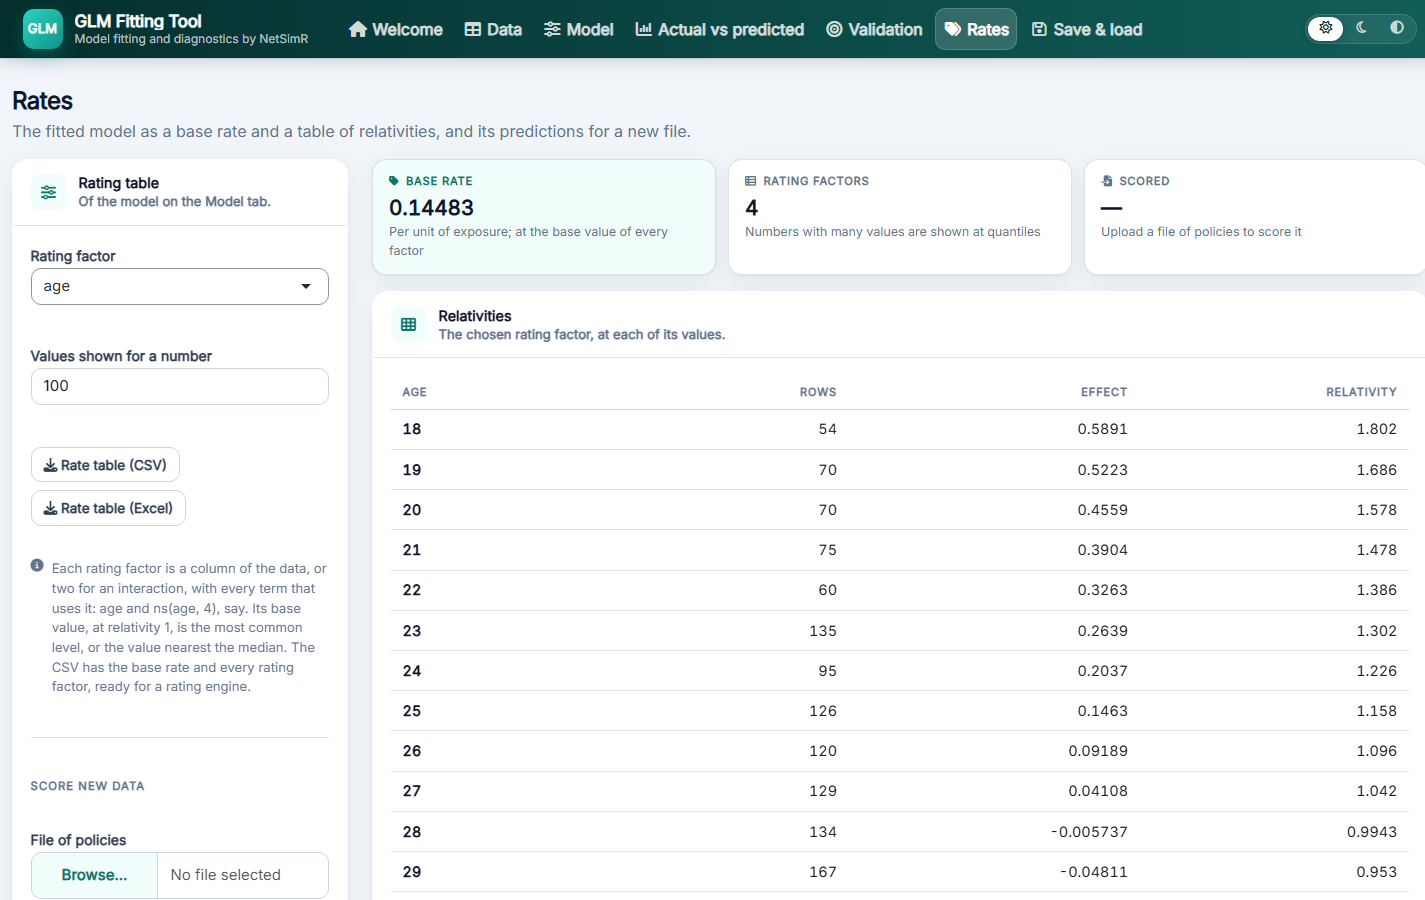
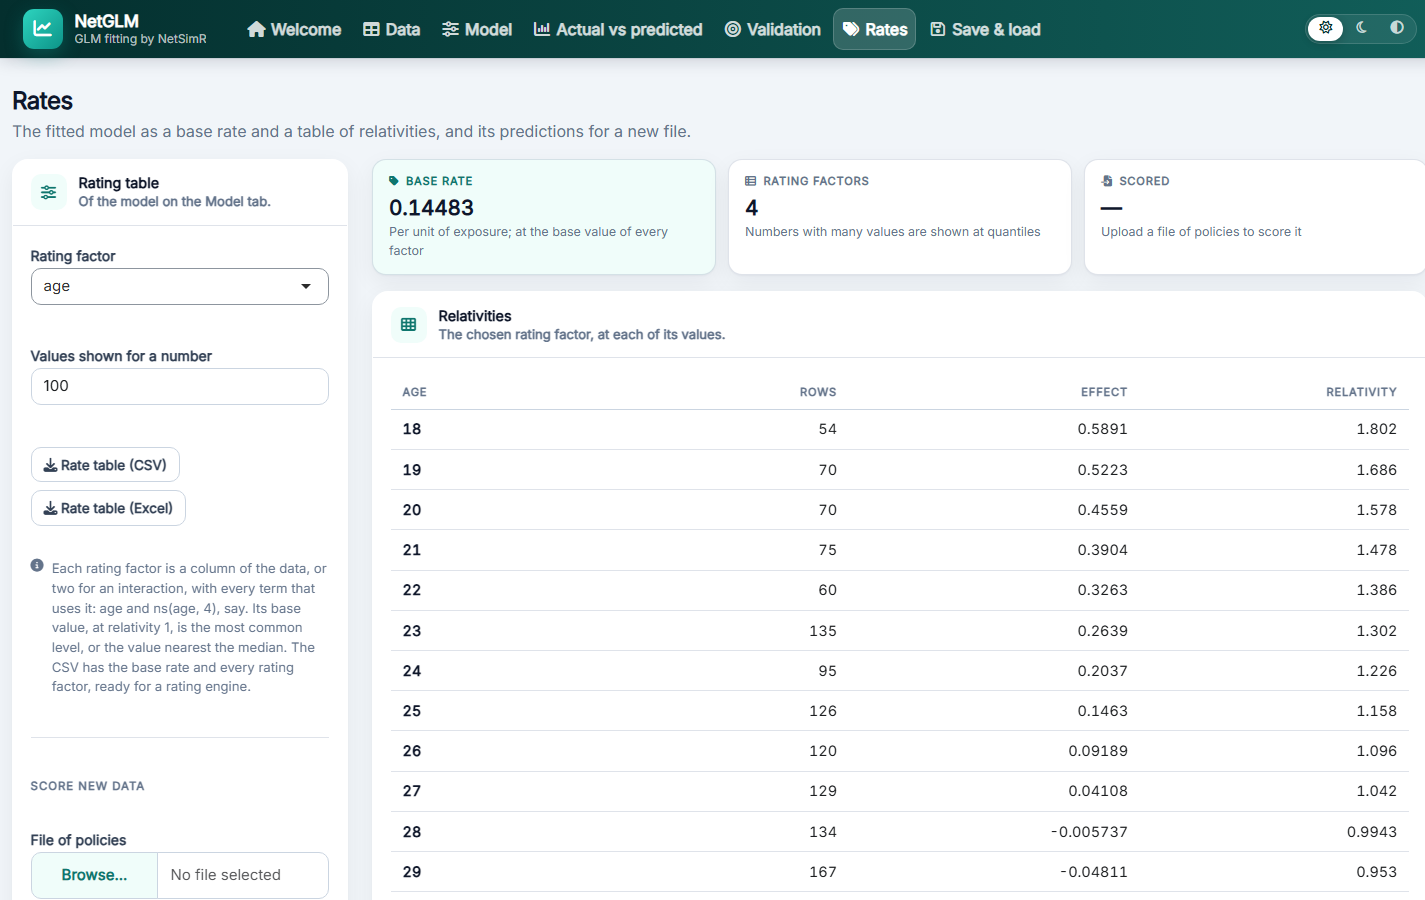
Name the six tools alike: NetSimulator and NetGLM, with matching titles, reports and website cards

Changed region(s): [[0.0309, 0.0, 0.8028, 0.0622]]

diff --git a/README.md b/README.md
@@ -57,16 +57,17 @@ remotes::install_github("NetSimAnalytics/NetSimR")
   and aggregate terms, a Pareto model of the large losses, exposure rating
   with the Swiss Re and Lloyd's (MBBEFD) curves or a claim size distribution,
   credibility blending and the technical premium with reinstatements.
-- **Six Shiny tools**: a claims simulator with reports and run comparison; a
-  distribution fitting tool for claim counts and sizes, including claims
-  reported only above a threshold or capped at policy limits, with Q-Q and P-P
-  plots, Anderson-Darling tests and the conditional tail expectations of each
-  fit, whose fits it saves as simulator settings; a GLM
-  fitting tool with a Tweedie family, splines and bands, variable selection
-  (stepwise, lasso, elastic net, ridge), validation on held-out rows (Gini,
-  lift and double lift), a rate table and scoring of new data; a reserving
-  tool with a report; a reinsurance pricing tool; and a portfolio capital
-  tool with copulas and capital allocation.
+- **Six Shiny tools**: NetSimulator, a claims simulator with reports and run
+  comparison; NetDisFit, a distribution fitting tool for claim counts and
+  sizes, including claims reported only above a threshold or capped at policy
+  limits, with Q-Q and P-P plots, Anderson-Darling tests and the conditional
+  tail expectations of each fit, whose fits it saves as simulator settings;
+  NetGLM, a GLM fitting tool with a Tweedie family, splines and bands,
+  variable selection (stepwise, lasso, elastic net, ridge), validation on
+  held-out rows (Gini, lift and double lift), a rate table and scoring of new
+  data; NetReserve, a reserving tool with a report; NetTreaty, a reinsurance
+  pricing tool; and NetCapital, a portfolio capital tool with copulas and
+  capital allocation.
 
 ## Examples
 
@@ -122,12 +123,12 @@ property_exposure_rating(xl_property_profile, 1e6, 4e6, curve = "Y3", loss_ratio
 ## Shiny tools
 
 ```r
-run_shiny_simulator()                  # claims simulator
-run_shiny_distribution_fitting_tool()  # frequency and severity fits
-run_shiny_glm_fitting_tool()           # generalised linear models
-run_shiny_reserving_tool()             # claims reserving
-run_shiny_reinsurance_pricing_tool()   # excess of loss pricing
-run_shiny_portfolio_tool()             # portfolio capital
+run_shiny_simulator()                  # NetSimulator: claims simulation
+run_shiny_distribution_fitting_tool()  # NetDisFit: frequency and severity fits
+run_shiny_glm_fitting_tool()           # NetGLM: generalised linear models
+run_shiny_reserving_tool()             # NetReserve: claims reserving
+run_shiny_reinsurance_pricing_tool()   # NetTreaty: reinsurance pricing
+run_shiny_portfolio_tool()             # NetCapital: portfolio capital
 ```
 
 Problems and ideas are welcome as [GitHub issues](https://github.com/NetSimAnalytics/NetSimR/issues/new/choose);
